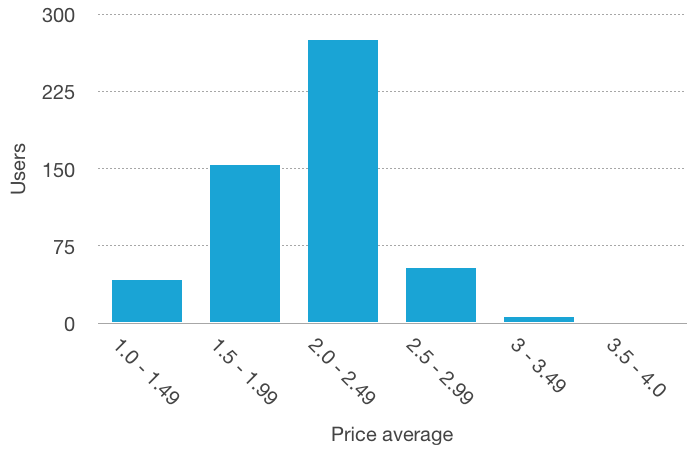
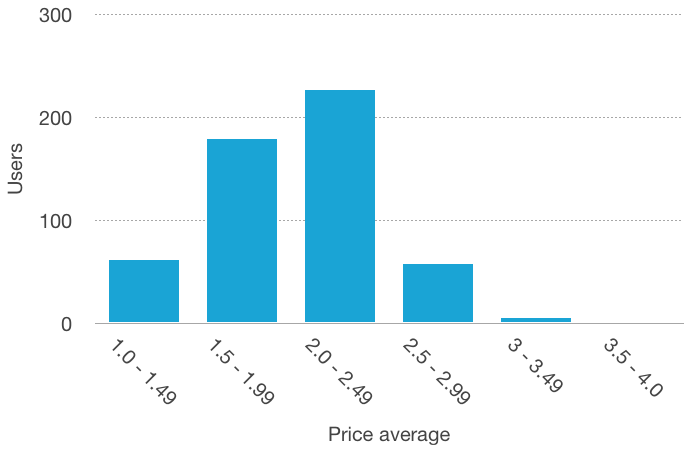
price range example

diff --git a/tex/thesis.tex b/tex/thesis.tex
@@ -670,7 +670,7 @@ The standard does not specify time interval between two probe requests or two ro
 
 There exists also a combination of active and passive scanning. A node can request information of all present wireless networks by sending a probe request frame with wildcard SSID. When an AP sees a wildcard probe request, it replies to the node with its own SSID. This way, the node does not state which networks it knows or wants to join, but it also does not need to wait for APs to advertise themselves by beacon frames. As a downside, this may increase unnecessary network traffic.
 
-IEEE Standard states wildcard SSID to be the one with all bits set to zero. 
+IEEE Standard states wildcard SSID to be the one with length set to zero. 
 
 
 %%%%%%%%%%%%%%%%%%%%%%%%%%%%%%%%%%%%%%%%%%%%%%%%%%%%%%%%%%%%%%%%%%%%%%%%%%%%%%%
@@ -1362,7 +1362,7 @@ For the rest parts of the experiments, we needed more details for our data. We d
         $$ u_{Loc} = C_1 \cdot \ln n + C_2 \cdot d^2 $$
         where $n$ is number of different locations for the SSID, $d$ is the average distance between locations, and $C_1$ and $C_2$ are constants. This way, there are small penalty for large number of networks with the same SSID, and larger penalty if they are far away from each others.
     
-    \item By location data and SSID, query Google Places to find out if the location is a well-known place. SSID was splitted into different words by several delimiters, such as `-', `\_', whitespace, and case changes. For example, SSID \texttt{FourSeasons\_Guests} splits into three search terms, \texttt{Four}, \texttt{Seasons}, and \texttt{Guests}.
+    \item By location data and SSID, query Google Places to find out if the location is a well-known place. SSID was split into different words by several delimiters, such as `-', `\_', whitespace, and case changes. For example, SSID \texttt{FourSeasons\_Guests} splits into three search terms, \texttt{Four}, \texttt{Seasons}, and \texttt{Guests}.
 
     \item Query Yelp database to get pricing information with same kind of parameters than Google Places.
 
@@ -1400,7 +1400,27 @@ We fetched pricing information from Yelp~\cite{yelp}, which reports price range 
 
 To increase the accuracy of price range analysis, we discarded the results with high uncertainty for location or Google Places data. Also, most of the users had only one or two SSIDs with pricing information, and we discarded those too. As a result, we managed to calculate average price range for 531 users (11~\%).
 
-The distribution of price average is shown in Figure~\ref{fig:prices_users}. We see a big peak on range $2.0 - 2.49$, and only seven users had an average of at least 3.0. This may be a result of nature of Yelp data. Nonetheless, we believe that in many cases the result gives hints about customer's purchasing power or consuming behavior, accuracy correlating with the number of SSIDs where pricing data was found.
+\begin{table}
+\center
+    \begin{tabular}{|l|c|}
+    \hline
+        \textbf{SSID}           & \textbf{Price $(1..4)$} \\ \hline
+        DJS WiFi                &       \\ \hline
+        HollisterBrewingCompany & 2     \\ \hline
+        JAVA STATION            & 1     \\ \hline
+        Motel 6 On Wi-Fi 5      & 1     \\ \hline
+        Spanish Mackerel        & 2     \\ \hline
+        DAILY GRIND             & 1     \\ \hline
+        ZIZZO'S COFFEE          &       \\ \hline
+        sbccWireless            &       \\ \hline
+    \end{tabular}
+    \caption{An example of price search. This user favors low-to-medium-cost services.}
+    \label{tab:example_price}
+\end{table}
+
+An example of price search is shown in Table~\ref{tab:example_price}. For clarity, other columns are not visible. We see that this user most likely favors low-price services. Also, from SSID \texttt{sbccWireless} we can guess that he goes to Santa Barbara City College, which sounds reasonable: usually, students are not the wealthiest part of the population.
+
+The distribution of price average is shown in Figure~\ref{fig:prices_users}. We see quite a lot of users on ranges $1.5-1.99$ and $2.0 - 2.49$, and only four users had an average of at least 3.0. This may be a result of nature of Yelp data or restaurant and hotel business: there are lots of low-to-medium range businesses, and reasonably low number of high-end services. Nonetheless, we believe that in many cases the result gives hints about customer's purchasing power or consuming behavior, accuracy correlating with the number of SSIDs where pricing data was found.
 
 \begin{figure}
     \center
